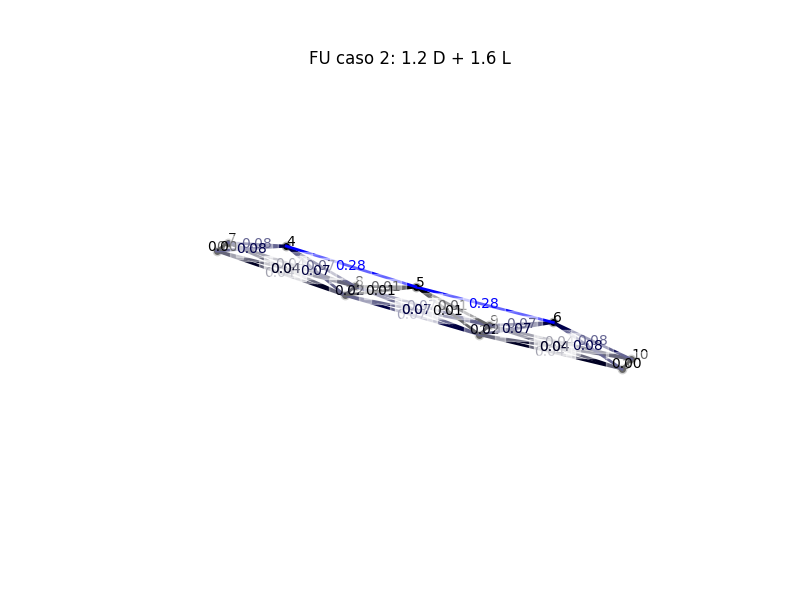
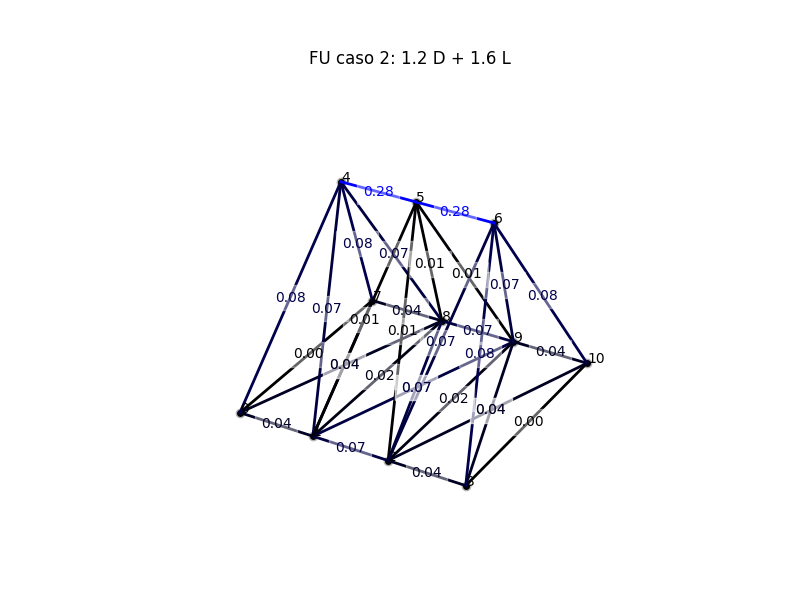
output y graficos

Changed region(s): [[0.25, 0.27, 0.8125, 0.84]]

diff --git a/ejemplo4.py b/ejemplo4.py
@@ -13,12 +13,12 @@ ret_D = caso_D()
 ret_L = caso_L()
 
 ver_reticulado_3d(ret_D, 
-	axis_Equal=True, 
+	axis_Equal=False, 
 	opciones_barras={
 	"ver_numeros_de_barras": False
 	}, 
     llamar_show=True,
-    zoom=180.,
+    zoom=280.,
     deshabilitar_ejes=True)
 
 
@@ -43,7 +43,7 @@ FU_caso2 = ret_D.recuperar_factores_de_utilizacion(f_2)
 
 import matplotlib.pyplot as plt
 
-ver_reticulado_3d(ret_D, 
+ver_reticulado_3d(ret_D,
     opciones_nodos = {
         "usar_posicion_deformada": True,
         "factor_amplificacion_deformada": 60.,
@@ -56,7 +56,7 @@ ver_reticulado_3d(ret_D,
         "color_fondo": [1,1,1,0.4]
     }, 
     llamar_show=False,
-    zoom=180.,
+    zoom=280.,
     deshabilitar_ejes=True)
 
 plt.title("Tensiones en caso 1: 1.4 D ")
@@ -64,7 +64,8 @@ plt.show()
 
 
 
-ver_reticulado_3d(ret_D, 
+ver_reticulado_3d(ret_D,
+    axis_Equal=False,  
     opciones_nodos = {
         "usar_posicion_deformada": True,
         "factor_amplificacion_deformada": 60.,
@@ -86,9 +87,10 @@ plt.show()
 
 
 
-ver_reticulado_3d(ret_D, 
+ver_reticulado_3d(ret_D,
+    axis_Equal=False,  
     opciones_nodos = {
-        "usar_posicion_deformada": True,
+        "usar_posicion_deformada": False,
         "factor_amplificacion_deformada": 60.,
     },
     opciones_barras = {
@@ -107,9 +109,10 @@ plt.show()
 
 
 
-ver_reticulado_3d(ret_D, 
+ver_reticulado_3d(ret_D,
+    axis_Equal=False, 
     opciones_nodos = {
-        "usar_posicion_deformada": True,
+        "usar_posicion_deformada": False,
         "factor_amplificacion_deformada": 60.,
     },
     opciones_barras = {
